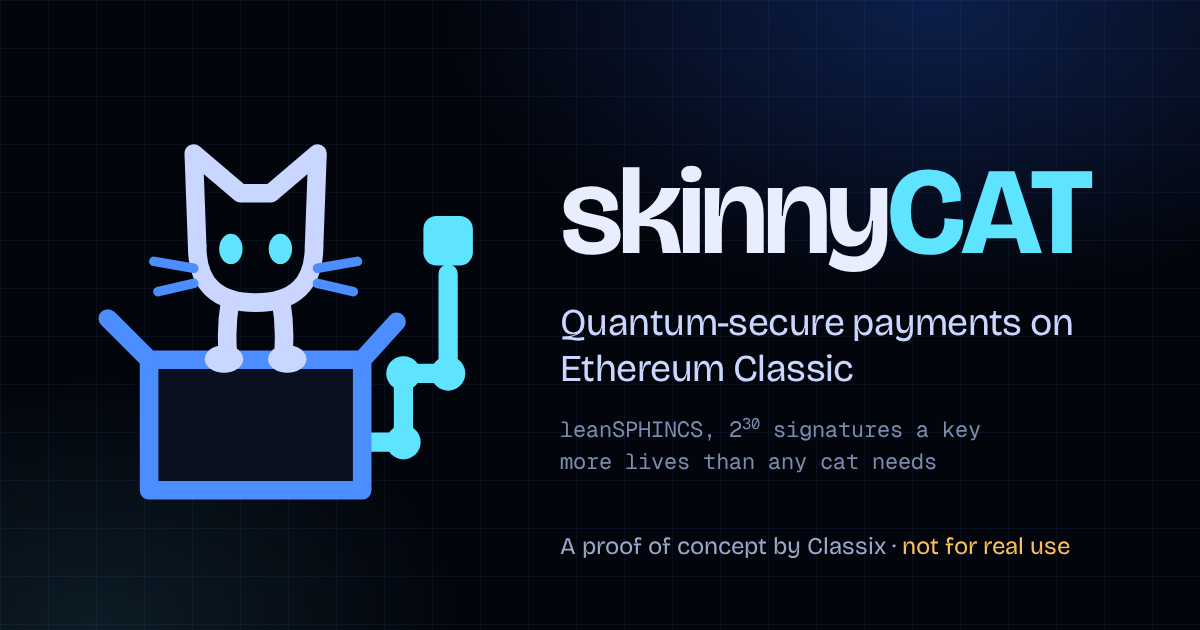
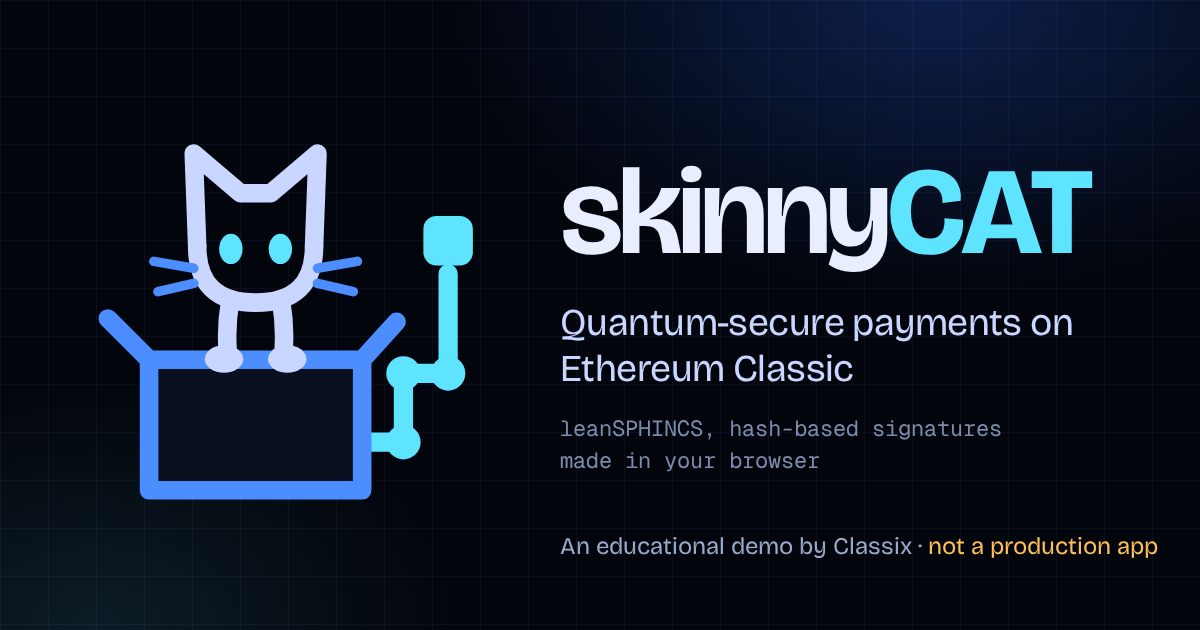
Rename the last pq-sig, pq-classix and pqETC leftovers to skinnyCAT and scETC
Nothing is deployed yet, so the CREATE2 salt and the signed-message tags move to
classix.skinnycat.* now, before they're fixed on mainnet. New addresses and the
digest fixture are regenerated from a fresh anvil deploy. Browser keys saved
under the old pq-classix names move over on first load. The share image says
educational demo, not a production app, and the explainer's last 'more lives'
caption now points at the signature budget.

Changed region(s): [[0.4625, 0.8444, 0.9558, 0.9048], [0.4625, 0.6635, 0.8325, 0.6937], [0.4625, 0.7238, 0.8017, 0.754]]

diff --git a/web/src/store.test.tsx b/web/src/store.test.tsx
@@ -58,7 +58,7 @@ describe("keys", () => {
     expect(s().keys.alice.view).toBe("busy");
     await until(() => s().keys.alice.view === "have");
     const seed = s().keys.alice.seed!;
-    expect(localStorage.getItem("pq-classix.alice.leansphincs-seed.v1")).toBe(seed);
+    expect(localStorage.getItem("skinnycat.alice.leansphincs-seed.v1")).toBe(seed);
     const k = keyFor(seed);
     expect(s().keys.alice.account).toBe(accountOf(k.pkSeed, k.pkRoot));
     expect(s().keys.alice.fresh).toBe(true);
@@ -70,8 +70,8 @@ describe("keys", () => {
   test("start loads both stored keys", async () => {
     const a = randomSeed();
     const b = randomSeed();
-    localStorage.setItem("pq-classix.alice.leansphincs-seed.v1", a);
-    localStorage.setItem("pq-classix.bob.leansphincs-seed.v1", b);
+    localStorage.setItem("skinnycat.alice.leansphincs-seed.v1", a);
+    localStorage.setItem("skinnycat.bob.leansphincs-seed.v1", b);
     store.start();
     await until(() => s().keys.alice.view === "have" && s().keys.bob.view === "have");
     expect(s().keys.alice.seed).toBe(a);
@@ -104,7 +104,7 @@ describe("keys", () => {
     await until(() => s().keys.bob.view === "have");
     store.forgetKey("bob");
     expect(s().keys.bob).toMatchObject({ view: "none", seed: null, account: null });
-    expect(localStorage.getItem("pq-classix.bob.leansphincs-seed.v1")).toBeNull();
+    expect(localStorage.getItem("skinnycat.bob.leansphincs-seed.v1")).toBeNull();
   });
 
   test("a keygen failure comes back as an error", async () => {

diff --git a/web/src/key.ts b/web/src/key.ts
@@ -9,9 +9,12 @@ export type Who = "alice" | "bob";
 export const WHO: Who[] = ["alice", "bob"];
 export const NAMES: Record<Who, string> = { alice: "Alice", bob: "Bob" };
 
-const storageKey = (who: Who) => `pq-classix.${who}.leansphincs-seed.v1`;
-/** The single key of the first version of the page becomes Alice's. */
-const LEGACY_KEY = "pq-classix.leansphincs-seed.v1";
+const storageKey = (who: Who) => `skinnycat.${who}.leansphincs-seed.v1`;
+/**
+ * Where earlier versions of the page kept keys, newest first. The site was called pq-classix, and
+ * its first version kept one key, which becomes Alice's.
+ */
+const oldKeys = (who: Who) => [`pq-classix.${who}.leansphincs-seed.v1`, ...(who === "alice" ? ["pq-classix.leansphincs-seed.v1"] : [])];
 
 export function randomSeed(): Hex {
   const b = new Uint8Array(32);
@@ -37,11 +40,11 @@ const valid = (s: string | null): s is Hex => !!s && /^0x[0-9a-f]{64}$/.test(s);
 export function loadSeed(who: Who): Hex | null {
   const s = localStorage.getItem(storageKey(who));
   if (valid(s)) return s;
-  if (who === "alice") {
-    const old = localStorage.getItem(LEGACY_KEY);
+  for (const k of oldKeys(who)) {
+    const old = localStorage.getItem(k);
     if (valid(old)) {
       localStorage.setItem(storageKey(who), old);
-      localStorage.removeItem(LEGACY_KEY);
+      localStorage.removeItem(k);
       return old;
     }
   }

diff --git a/web/src/key.test.ts b/web/src/key.test.ts
@@ -28,7 +28,7 @@ describe("storage", () => {
     expect(loadSeed("bob")).toBe(b);
   });
   test("ignores junk", () => {
-    localStorage.setItem("pq-classix.bob.leansphincs-seed.v1", "0x1234");
+    localStorage.setItem("skinnycat.bob.leansphincs-seed.v1", "0x1234");
     expect(loadSeed("bob")).toBeNull();
   });
   test("moves the first version's single key to Alice", () => {
@@ -38,5 +38,15 @@ describe("storage", () => {
     expect(loadSeed("alice")).toBe(s);
     expect(localStorage.getItem("pq-classix.leansphincs-seed.v1")).toBeNull();
     expect(loadSeed("alice")).toBe(s);
+  });
+  test("moves keys saved under the old pq-classix names", () => {
+    const a = randomSeed();
+    const b = randomSeed();
+    localStorage.setItem("pq-classix.alice.leansphincs-seed.v1", a);
+    localStorage.setItem("pq-classix.bob.leansphincs-seed.v1", b);
+    expect(loadSeed("alice")).toBe(a);
+    expect(loadSeed("bob")).toBe(b);
+    expect(localStorage.getItem("skinnycat.bob.leansphincs-seed.v1")).toBe(b);
+    expect(localStorage.getItem("pq-classix.bob.leansphincs-seed.v1")).toBeNull();
   });
 });

diff --git a/web/src/lib/format.test.ts b/web/src/lib/format.test.ts
@@ -6,7 +6,7 @@ import { errMsg, fmt, parseAmount, revertName, short } from "./format";
 describe("fmt", () => {
   test("drops trailing zeros and caps at six decimals", () => {
     expect(fmt(10n ** 18n)).toBe("1");
-    expect(fmt(4n * 10n ** 17n, "pqETC")).toBe("0.4 pqETC");
+    expect(fmt(4n * 10n ** 17n, "scETC")).toBe("0.4 scETC");
     expect(fmt(1234567890123456789n, "ETC")).toBe("1.234567 ETC");
     expect(fmt(0n, "ETC")).toBe("0 ETC");
   });
@@ -33,7 +33,7 @@ describe("parseAmount", () => {
 });
 
 describe("errors", () => {
-  test("decodes pqETC's custom errors", () => {
+  test("decodes scETC's custom errors", () => {
     const data = encodeErrorResult({ abi: ledgerAbi, errorName: "BadSignature" });
     expect(revertName(data)).toBe("BadSignature()");
     expect(revertName("0x12345678")).toBeNull();

diff --git a/web/src/ledger.ts b/web/src/ledger.ts
@@ -17,8 +17,8 @@ import {
 } from "viem";
 import { ledgerAbi } from "./generated/contracts";
 
-export const TRANSFER_TAG = keccak256(stringToHex("classix.pq-sig.LeanSphincsLedger.transfer.v1"));
-export const WITHDRAW_TAG = keccak256(stringToHex("classix.pq-sig.LeanSphincsLedger.withdraw.v1"));
+export const TRANSFER_TAG = keccak256(stringToHex("classix.skinnycat.LeanSphincsLedger.transfer.v1"));
+export const WITHDRAW_TAG = keccak256(stringToHex("classix.skinnycat.LeanSphincsLedger.withdraw.v1"));
 /** The scheme byte EIP-8288 gives leanSPHINCS. */
 export const LEANSPHINCS_SCHEME = "0x10";
 

diff --git a/web/src/viz/eli5/copy.ts b/web/src/viz/eli5/copy.ts
@@ -90,7 +90,7 @@ export const ELI5_SCENES: Eli5Copy[] = [
       "Alice blends the message, and the smoothie points at a spot to sign from.",
       "A new message points somewhere new. Alice keeps no list.",
       "One key is good for about a billion signatures.",
-      "That's more lives than any cat needs.",
+      "Past that the key starts to wear out, so make a new one.",
     ],
     real: "The message's hash picks one of 67 million FORS keys, a kind that can sign a few times. EthLib's proof covers 2^30 signatures per key.",
     realTarget: "hypertree",

diff --git a/PLAN.md b/PLAN.md
@@ -64,7 +64,7 @@ On load the page checks the deployed verifier's code hash and runs EthLib vector
 
 Testing, as of 2026-11-11.
 
-- 131 Vitest unit tests with Testing Library and axe.
+- 132 Vitest unit tests with Testing Library and axe.
 - An end-to-end run (`npm run test:e2e`) against anvil as chain 61 on Shanghai rules. It deploys with the real script, drives the whole Alice and Bob story in Playwright, fails on any console error or hydration warning, and checks the layout at six widths from 320 to 1440 px. From 768 px up Alice and Bob sit side by side.
 - Lighthouse on the live site scores 100 for accessibility, best practices and SEO, 100 for desktop performance and 90 to 92 for mobile performance.
 
